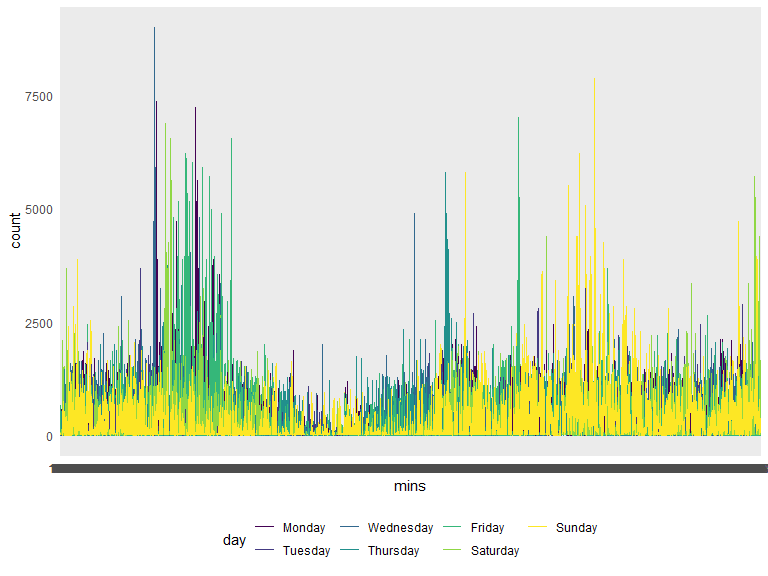
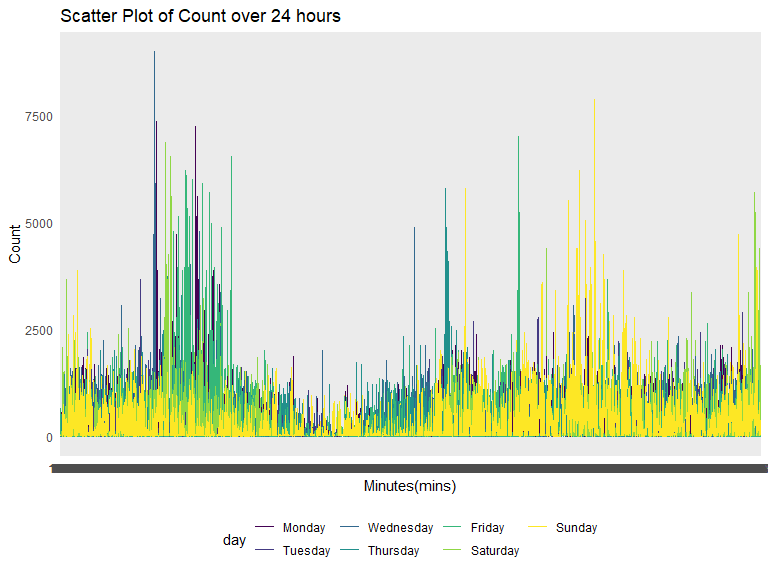
Final edits, final commit.

diff --git a/p8105_hw3_hg2596_final.md b/p8105_hw3_hg2596_final.md
@@ -159,15 +159,17 @@ accel_2 =  pivot_longer(
   mutate(day = fct_relevel(day,"Monday","Tuesday","Wednesday", "Thursday", "Friday","Saturday", "Sunday"))
 ```
 
-Originally had over 1440 columns, the following variables were: **week**
+# Part 1
+
+Originally had over 1440 columns, the following variables were **week**
 (1-5),**day_ID** (just a count), **day** (Mon-Sun), **activity_1**,
-**activity_2**…activity count following the patient 24 hours.
+**activity_2**…and so on for following the patient for 24 hours.
 
 Now, after pivoting longer, we are able to put the counts is **counts**
-making it one variable,and made a new variable **mins** to kep track
+making it one variable,and made a new variable **mins** to keep track
 which count came from which minute of the week.
 
-There are now 50400 observations and 6 wows
+There are now 50400 observations and 6 columns.
 
 ``` r
 accel_3 = 
@@ -179,8 +181,6 @@ accel_2 %>%
 
     ## `summarise()` has grouped output by 'week'. You can override using the
     ## `.groups` argument.
-
-maybe ad false = true so the high can come to the beginning
 
 ``` r
 accel_4 = accel_3 %>%
@@ -201,9 +201,7 @@ accel_4
     ## 4     4 409450  319568    434460   340291  154049      1440 260617
     ## 5     5 389080  367824    445366   549658  620860      1440 138421
 
-**Question 1; Part 2** Any trends apparent?
-
-A big drop on the weekends.
+# Part 2
 
 Just eyeballing the table, it looks like the for week 4 and week 5 there
 is a **big drop** in counts on Saturday. On average, Mondays on average
@@ -212,14 +210,17 @@ just based on the table.
 
 ``` r
 ggplot(accel_2, aes(x = mins, y = count, color = day)) + 
-  geom_line()
+  geom_line() +
+   labs(
+    title = "Scatter Plot of Count over 24 hours",
+    x = "Minutes(mins)",
+    y = "Count",
+  )
 ```
 
 <img src="p8105_hw3_hg2596_final_files/figure-gfm/unnamed-chunk-10-1.png" width="90%" />
 
-**Question 1; Part 3**
-
-Describe any patterns or conclusions
+# Part 3
 
 There is a lot of data, so it is very difficult to distinguish
 patterns.However, some of the trends is that that count on **average is
@@ -235,26 +236,6 @@ data("ny_noaa")
 ```
 
 ``` r
-names(ny_noaa)
-```
-
-    ## [1] "id"   "date" "prcp" "snow" "snwd" "tmax" "tmin"
-
-``` r
-head(ny_noaa)
-```
-
-    ## # A tibble: 6 × 7
-    ##   id          date        prcp  snow  snwd tmax  tmin 
-    ##   <chr>       <date>     <int> <int> <int> <chr> <chr>
-    ## 1 US1NYAB0001 2007-11-01    NA    NA    NA <NA>  <NA> 
-    ## 2 US1NYAB0001 2007-11-02    NA    NA    NA <NA>  <NA> 
-    ## 3 US1NYAB0001 2007-11-03    NA    NA    NA <NA>  <NA> 
-    ## 4 US1NYAB0001 2007-11-04    NA    NA    NA <NA>  <NA> 
-    ## 5 US1NYAB0001 2007-11-05    NA    NA    NA <NA>  <NA> 
-    ## 6 US1NYAB0001 2007-11-06    NA    NA    NA <NA>  <NA>
-
-``` r
 noaa_2 = ny_noaa %>% 
   janitor::clean_names() %>%
   separate(date,c("A", "B", "C")) %>%
@@ -264,19 +245,7 @@ noaa_2 = ny_noaa %>%
   mutate(tmax = as.integer(tmax)) %>%
   mutate(tmin = as.integer(tmin)) %>%
   select(id, everything()) 
-
-head(noaa_2)
 ```
-
-    ## # A tibble: 6 × 9
-    ##   id          month day   year   prcp  snow  snwd  tmax  tmin
-    ##   <chr>       <chr> <chr> <chr> <int> <int> <int> <int> <int>
-    ## 1 US1NYAB0001 Nov   01    2007     NA    NA    NA    NA    NA
-    ## 2 US1NYAB0001 Nov   02    2007     NA    NA    NA    NA    NA
-    ## 3 US1NYAB0001 Nov   03    2007     NA    NA    NA    NA    NA
-    ## 4 US1NYAB0001 Nov   04    2007     NA    NA    NA    NA    NA
-    ## 5 US1NYAB0001 Nov   05    2007     NA    NA    NA    NA    NA
-    ## 6 US1NYAB0001 Nov   06    2007     NA    NA    NA    NA    NA
 
 ``` r
 noaa_3= 
@@ -284,12 +253,45 @@ noaa_3=
   mutate(tmax_new = tmax/10) %>%
   mutate(tmin_new = tmin/10) %>%
   mutate(prcp_new = prcp/10) %>% 
-  mutate_if(is.double,as.integer)
+  mutate_if(is.double,as.integer)%>%
+  select(-tmax,-tmin,-prcp)
+  
+
+skimr::skim(noaa_3)
 ```
 
-tmax: Maximum temperature (tenths of degrees C) -\> C tmin: Minimum
-temperature (tenths of degrees C) -\> C prcp: Precipitation (tenths of
-mm) -\> m
+|                                                  |         |
+|:-------------------------------------------------|:--------|
+| Name                                             | noaa_3  |
+| Number of rows                                   | 2595176 |
+| Number of columns                                | 9       |
+| \_\_\_\_\_\_\_\_\_\_\_\_\_\_\_\_\_\_\_\_\_\_\_   |         |
+| Column type frequency:                           |         |
+| character                                        | 4       |
+| numeric                                          | 5       |
+| \_\_\_\_\_\_\_\_\_\_\_\_\_\_\_\_\_\_\_\_\_\_\_\_ |         |
+| Group variables                                  | None    |
+
+Data summary
+
+**Variable type: character**
+
+| skim_variable | n_missing | complete_rate | min | max | empty | n_unique | whitespace |
+|:--------------|----------:|--------------:|----:|----:|------:|---------:|-----------:|
+| id            |         0 |             1 |  11 |  11 |     0 |      747 |          0 |
+| month         |         0 |             1 |   3 |   3 |     0 |       12 |          0 |
+| day           |         0 |             1 |   2 |   2 |     0 |       31 |          0 |
+| year          |         0 |             1 |   4 |   4 |     0 |       30 |          0 |
+
+**Variable type: numeric**
+
+| skim_variable | n_missing | complete_rate |  mean |     sd |  p0 | p25 | p50 | p75 |  p100 | hist  |
+|:--------------|----------:|--------------:|------:|-------:|----:|----:|----:|----:|------:|:------|
+| snow          |    381221 |          0.85 |  4.99 |  27.22 | -13 |   0 |   0 |   0 | 10160 | ▇▁▁▁▁ |
+| snwd          |    591786 |          0.77 | 37.31 | 113.54 |   0 |   0 |   0 |   0 |  9195 | ▇▁▁▁▁ |
+| tmax_new      |   1134358 |          0.56 | 13.64 |  10.97 | -38 |   5 |  15 |  23 |    60 | ▁▃▇▆▁ |
+| tmin_new      |   1134420 |          0.56 |  2.92 |  10.06 | -59 |  -3 |   3 |  11 |    60 | ▁▁▇▂▁ |
+| prcp_new      |    145838 |          0.94 |  2.81 |   7.72 |   0 |   0 |   0 |   2 |  2286 | ▇▁▁▁▁ |
 
 ``` r
 noaa_3 %>% 
@@ -311,25 +313,27 @@ noaa_3 %>%
     ## 10     3    8790
     ## # … with 272 more rows
 
-\*\* Question 3;
+# Part 1
 
-The goal is to do some exploration of this dataset. To that end, write a
-short description of the dataset, noting the size and structure of the
-data, describing some key variables, and indicating the extent to which
-missing data is an issue. Then, do or answer the following (commenting
-on the results of each):
+After cleaning, **ID**, **month**, **day**, **year**,**snow**, **snwd**,
+**tmax_new**, **tmin_new** and **prcp_new**. With 2595176 observations
+and 9 columns.
 
-After cleaning, **ID**, **date** (month,day,year), **prcp**, **snow**,
-**snwd**, **tmax** and **tmin**.
+Another cleaning step was dividing any variable that was measured in
+**tenth of a unit** by **10** so that the units were a little easier to
+read and understand. Leaving the units to be in Celsius and mm.
 
-**missing** alot…?
+There are unfortunately a lot of missing data across all variables
+especially **tmax** and **tmin** but when looking at the variables means
+they seem accurate to what one would expect levels of temperature
+minimum and max temperatures (similarly in other variables) so I think
+even despite the missing observations, the data will provide good
+information.
 
-For snowfall, what are the most commonly observed values? Why?
-
-Most common is no snow days, “0”. The reason behind that can be because
-location, not too many snow days.
-
-\*Is missing data an issue??????????
+Most common value in the variable **snow** is ‘0’. This does logically
+make sense because snow only really occurs 3 months out of the 12 months
+in a year, the largest value being no snow day makes sense in context of
+a whole year.
 
 ``` r
 noaa_3 %>%
@@ -337,80 +341,62 @@ noaa_3 %>%
   group_by(id, month) %>%
   filter(month == "Jan"| month == "Jul") %>%
   summarize(avg_tmax = mean(tmax_new)) %>%
-  ggplot(aes(x = id, y = avg_tmax)) + geom_point(alpha = .8) + facet_grid(. ~ month)
+  ggplot(aes(x = id, y = avg_tmax)) + geom_point(alpha = 0.8) +
+  facet_grid(. ~ month) +
+  labs(
+    title = "Scatter Plot of Average Max Temperture in July and January", 
+    x = "ID",
+    y = "Average Max Temperature (C)", 
+  )
 ```
 
     ## `summarise()` has grouped output by 'id'. You can override using the `.groups`
     ## argument.
 
-<img src="p8105_hw3_hg2596_final_files/figure-gfm/unnamed-chunk-16-1.png" width="90%" />
+<img src="p8105_hw3_hg2596_final_files/figure-gfm/unnamed-chunk-15-1.png" width="90%" />
 
-Is there any observational, interpretable structure. Any outliers? try
-box plot?
+# Part 2
 
-``` r
-skimr::skim(noaa_3)
-```
+The main take away would be that in January we would expect average max
+temperatures to be low compared to July, which the plot clearly shows.
+As for as outliers, it is difficult to see outliers but there some to be
+some locations that have higher temperatures then one might expect in
+January. Similarly, there are some locations that have lower
+temperatures in July then one might expect.
 
-|                                                  |         |
-|:-------------------------------------------------|:--------|
-| Name                                             | noaa_3  |
-| Number of rows                                   | 2595176 |
-| Number of columns                                | 12      |
-| \_\_\_\_\_\_\_\_\_\_\_\_\_\_\_\_\_\_\_\_\_\_\_   |         |
-| Column type frequency:                           |         |
-| character                                        | 4       |
-| numeric                                          | 8       |
-| \_\_\_\_\_\_\_\_\_\_\_\_\_\_\_\_\_\_\_\_\_\_\_\_ |         |
-| Group variables                                  | None    |
-
-Data summary
-
-**Variable type: character**
-
-| skim_variable | n_missing | complete_rate | min | max | empty | n_unique | whitespace |
-|:--------------|----------:|--------------:|----:|----:|------:|---------:|-----------:|
-| id            |         0 |             1 |  11 |  11 |     0 |      747 |          0 |
-| month         |         0 |             1 |   3 |   3 |     0 |       12 |          0 |
-| day           |         0 |             1 |   2 |   2 |     0 |       31 |          0 |
-| year          |         0 |             1 |   4 |   4 |     0 |       30 |          0 |
-
-**Variable type: numeric**
-
-| skim_variable | n_missing | complete_rate |   mean |     sd |   p0 | p25 | p50 | p75 |  p100 | hist  |
-|:--------------|----------:|--------------:|-------:|-------:|-----:|----:|----:|----:|------:|:------|
-| prcp          |    145838 |          0.94 |  29.82 |  78.18 |    0 |   0 |   0 |  23 | 22860 | ▇▁▁▁▁ |
-| snow          |    381221 |          0.85 |   4.99 |  27.22 |  -13 |   0 |   0 |   0 | 10160 | ▇▁▁▁▁ |
-| snwd          |    591786 |          0.77 |  37.31 | 113.54 |    0 |   0 |   0 |   0 |  9195 | ▇▁▁▁▁ |
-| tmax          |   1134358 |          0.56 | 139.80 | 111.42 | -389 |  50 | 150 | 233 |   600 | ▁▂▇▆▁ |
-| tmin          |   1134420 |          0.56 |  30.29 | 104.00 | -594 | -39 |  33 | 111 |   600 | ▁▁▇▂▁ |
-| tmax_new      |   1134358 |          0.56 |  13.64 |  10.97 |  -38 |   5 |  15 |  23 |    60 | ▁▃▇▆▁ |
-| tmin_new      |   1134420 |          0.56 |   2.92 |  10.06 |  -59 |  -3 |   3 |  11 |    60 | ▁▁▇▂▁ |
-| prcp_new      |    145838 |          0.94 |   2.81 |   7.72 |    0 |   0 |   0 |   2 |  2286 | ▇▁▁▁▁ |
+# Part 3
 
 ``` r
 graph = 
   noaa_3 %>% 
   mutate(year = as.factor(year)) %>%
   ggplot(aes(x = tmax_new, y = tmin_new)) + 
-  geom_hex()
+  geom_hex() +
+labs(
+    title = "Hexplot of Tmax vs Tmin",
+    x = "Maxiumum Temperatue (C)",
+    y = "Minimum Temperature (C)"
+  )
 ```
 
 ``` r
-scatter_2 = 
+density = 
   noaa_2 %>%
   mutate(year = as.factor(year)) %>%
   filter(snow < 100) %>%
   filter(snow >= 0) %>%
-  ggplot(aes(x = snow , y = year)) + geom_density_ridges(alpha = 0.5)
+  ggplot(aes(x = snow , y = year)) + geom_density_ridges(alpha = 0.5) +
+labs(
+    title = "Distribution of Snow with Density Plot",
+    x = "Snow (mm)", 
+    y = "Year"
+  ) 
 ```
 
 ``` r
-(graph/scatter_2)
+(graph + density)
 ```
 
     ## Picking joint bandwidth of 1.03
 
-<img src="p8105_hw3_hg2596_final_files/figure-gfm/unnamed-chunk-20-1.png" width="90%" />
-
-ADD titles??
+<img src="p8105_hw3_hg2596_final_files/figure-gfm/unnamed-chunk-18-1.png" width="90%" />
